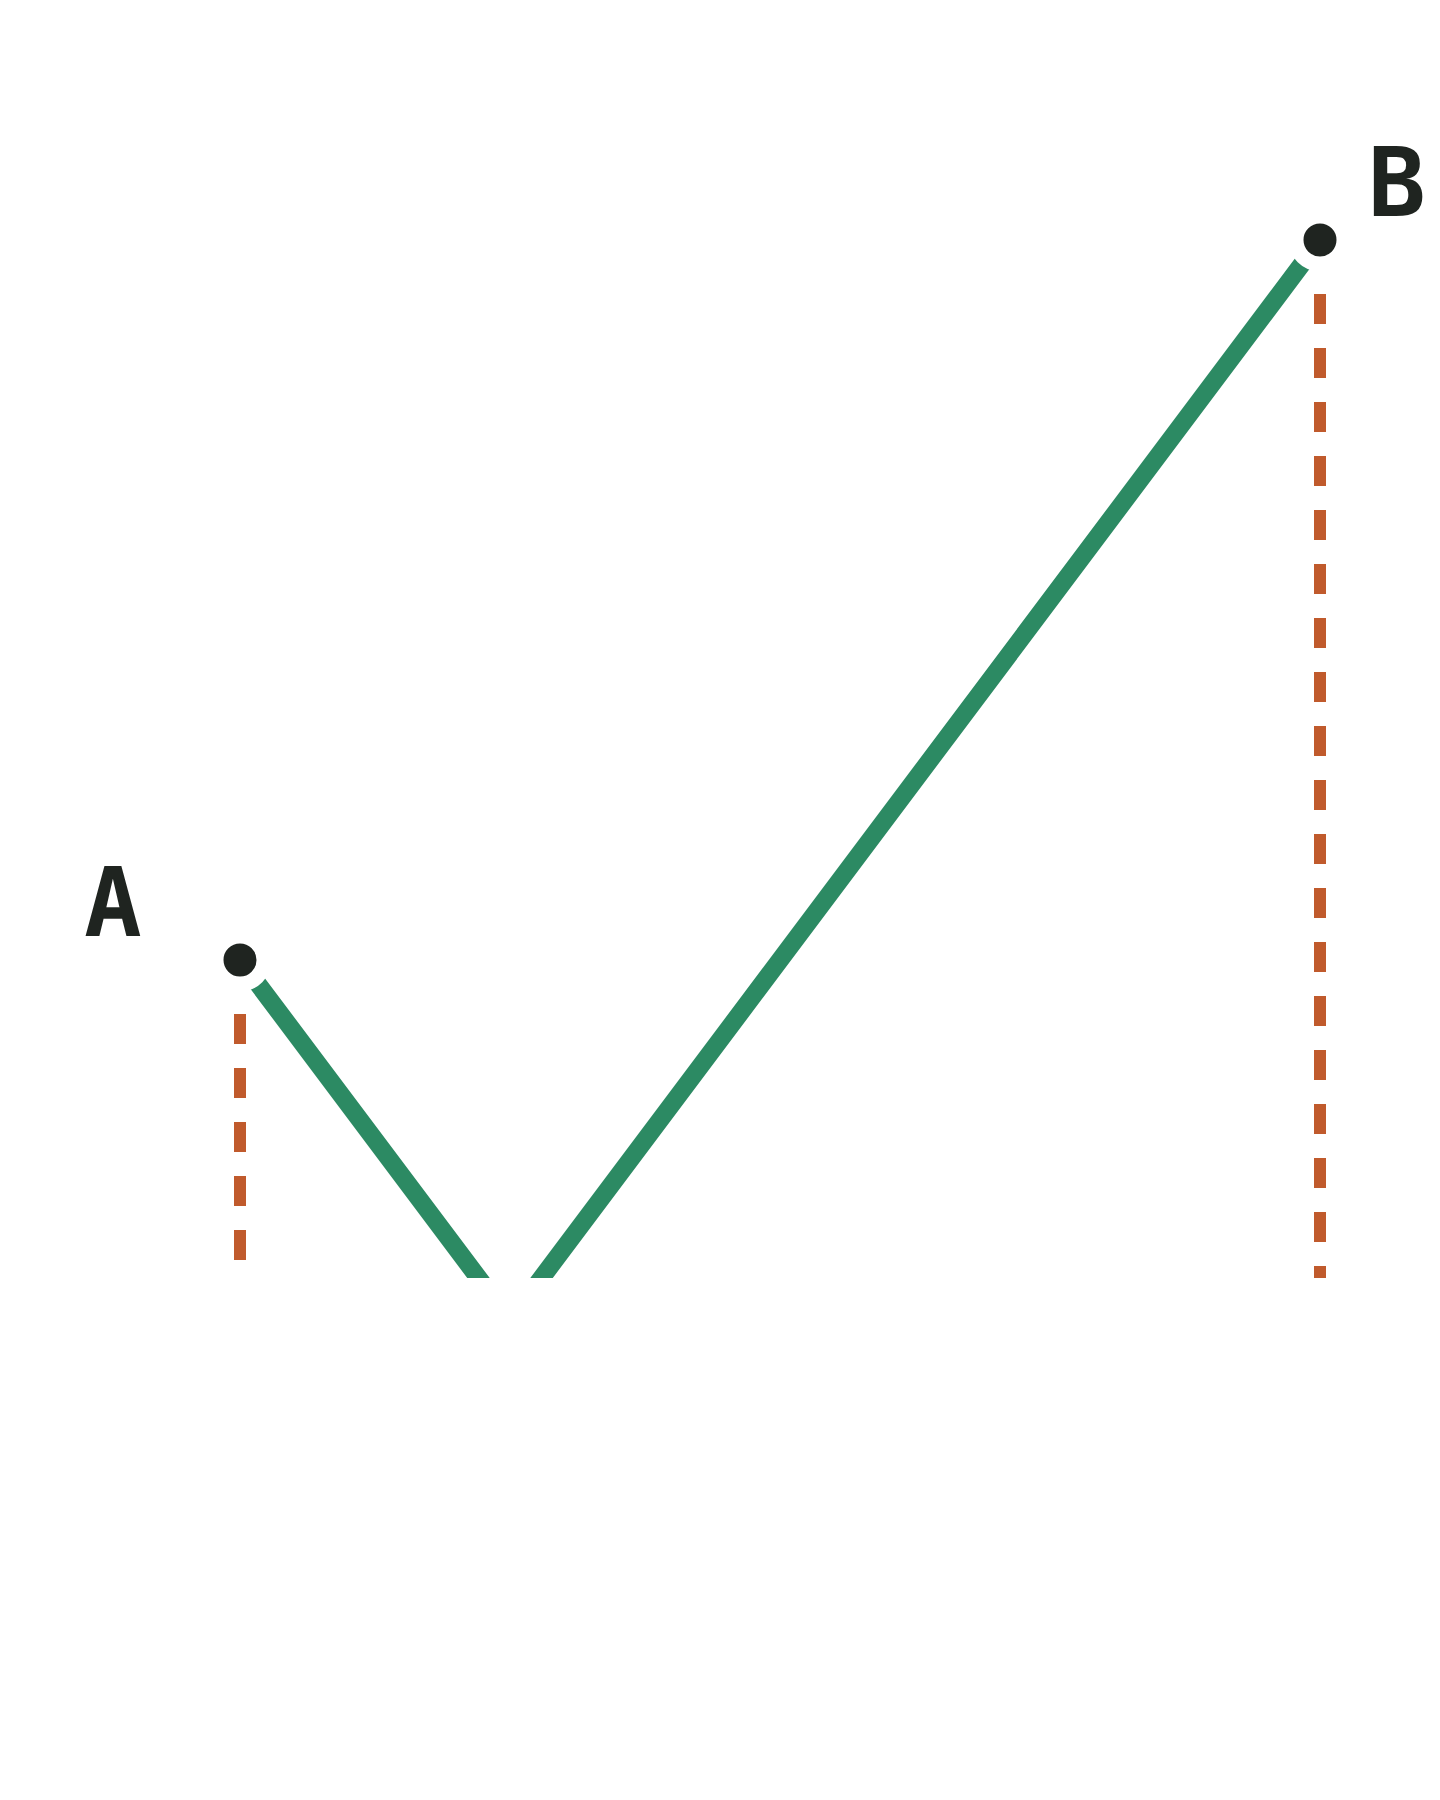
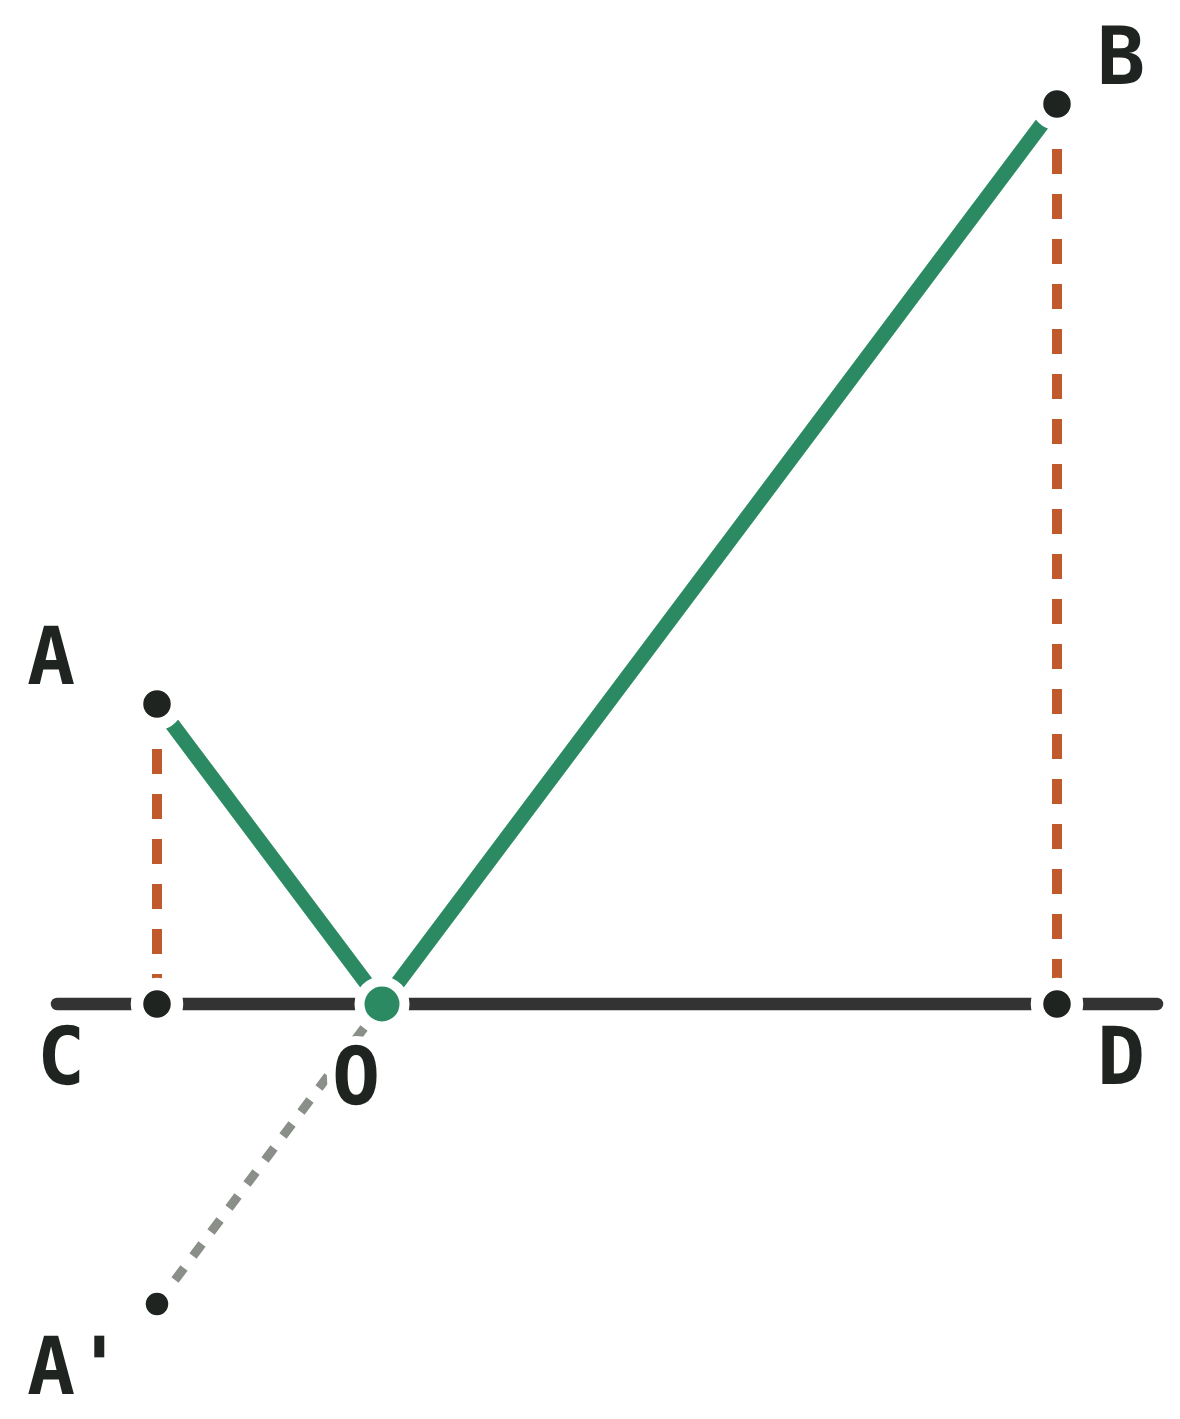
cixibara: 修复截图不全问题（渲染放大+autocrop裁剪），补充教训到CLAUDE.md

diff --git a/projects/cixibara/diagrams/autocrop.py b/projects/cixibara/diagrams/autocrop.py
@@ -1,0 +1,42 @@
+#!/usr/bin/env python3
+"""用法: python3 autocrop.py input.png output.png [padding]
+把 render.sh 生成的图裁到内容边界（防止之前"截图不全/留白太多"的问题）。
+- 若图片带 alpha 通道（pure-template 透明背景）：按非透明像素的包围盒裁剪。
+- 若不透明（card 系列）：按四角背景色，裁掉大片纯色边框。
+渲染时 render.sh 的 width/height 尽量给大一点（宁可留白也不要裁到内容），
+交给这个脚本收紧，而不是反复猜测精确尺寸。
+"""
+import sys
+from PIL import Image
+
+def autocrop(path_in, path_out, pad=16):
+    im = Image.open(path_in)
+    if im.mode == "RGBA" and im.getchannel("A").getextrema()[0] < 255:
+        bbox = im.getbbox()
+    else:
+        rgb = im.convert("RGB")
+        w, h = rgb.size
+        bg = rgb.getpixel((2, 2))
+        px = rgb.load()
+        def row_is_bg(y):
+            return all(px[x, y] == bg for x in range(0, w, 4))
+        def col_is_bg(x):
+            return all(px[x, y] == bg for y in range(0, h, 4))
+        top = 0
+        while top < h and row_is_bg(top): top += 1
+        bottom = h - 1
+        while bottom > 0 and row_is_bg(bottom): bottom -= 1
+        left = 0
+        while left < w and col_is_bg(left): left += 1
+        right = w - 1
+        while right > 0 and col_is_bg(right): right -= 1
+        bbox = (left, top, right, bottom)
+    l, t, r, b = bbox
+    l = max(0, l - pad); t = max(0, t - pad)
+    r = min(im.width, r + pad); b = min(im.height, b + pad)
+    im.crop((l, t, r, b)).save(path_out)
+
+if __name__ == "__main__":
+    pad = int(sys.argv[3]) if len(sys.argv) > 3 else 16
+    autocrop(sys.argv[1], sys.argv[2], pad)
+    print(f"已裁剪 {sys.argv[2]}")

diff --git a/projects/cixibara/CLAUDE.md b/projects/cixibara/CLAUDE.md
@@ -22,6 +22,7 @@
 - `diagrams/circle-demo.html` / `triangle-demo.html` 是现成模板参考（配色、卡片布局、SVG 标注风格），
   新图可以照着这个结构改坐标和标签，不用从零设计。
 - 图里只画纯图形（点/线/坐标/标注），不嵌入文字说明、标题、数据小结（如 CO=3/4km 这类）——这些说明性文字直接写在聊天正文里，不放进图片。
+- **重要教训（截图不全）**：`render.sh` 的 width/height 若比 HTML 实际内容小，headless chrome 只截可视区域，多出来的内容会被直接切掉（不是缩小，是消失）。所以调用 render.sh 时宁可把 width/height 给大一点（留白没关系），截完用 `diagrams/autocrop.py output.png output.png` 裁掉多余留白（透明图按非透明像素包围盒裁，卡片图按四角背景色裁），而不要反复猜测精确尺寸。
 - **默认优先用 `diagrams/pure-template.html`**（纯净版：透明背景、无卡片、无标题、无配文，只有图形本身+必要的
   点/线/坐标标注）——这是发给用户时最接近"直接内嵌"的效果，跟发一张贴纸图一样干净。只有明确需要标题/说明文字
   时才用 `circle-demo.html` 那种带卡片的版本。
